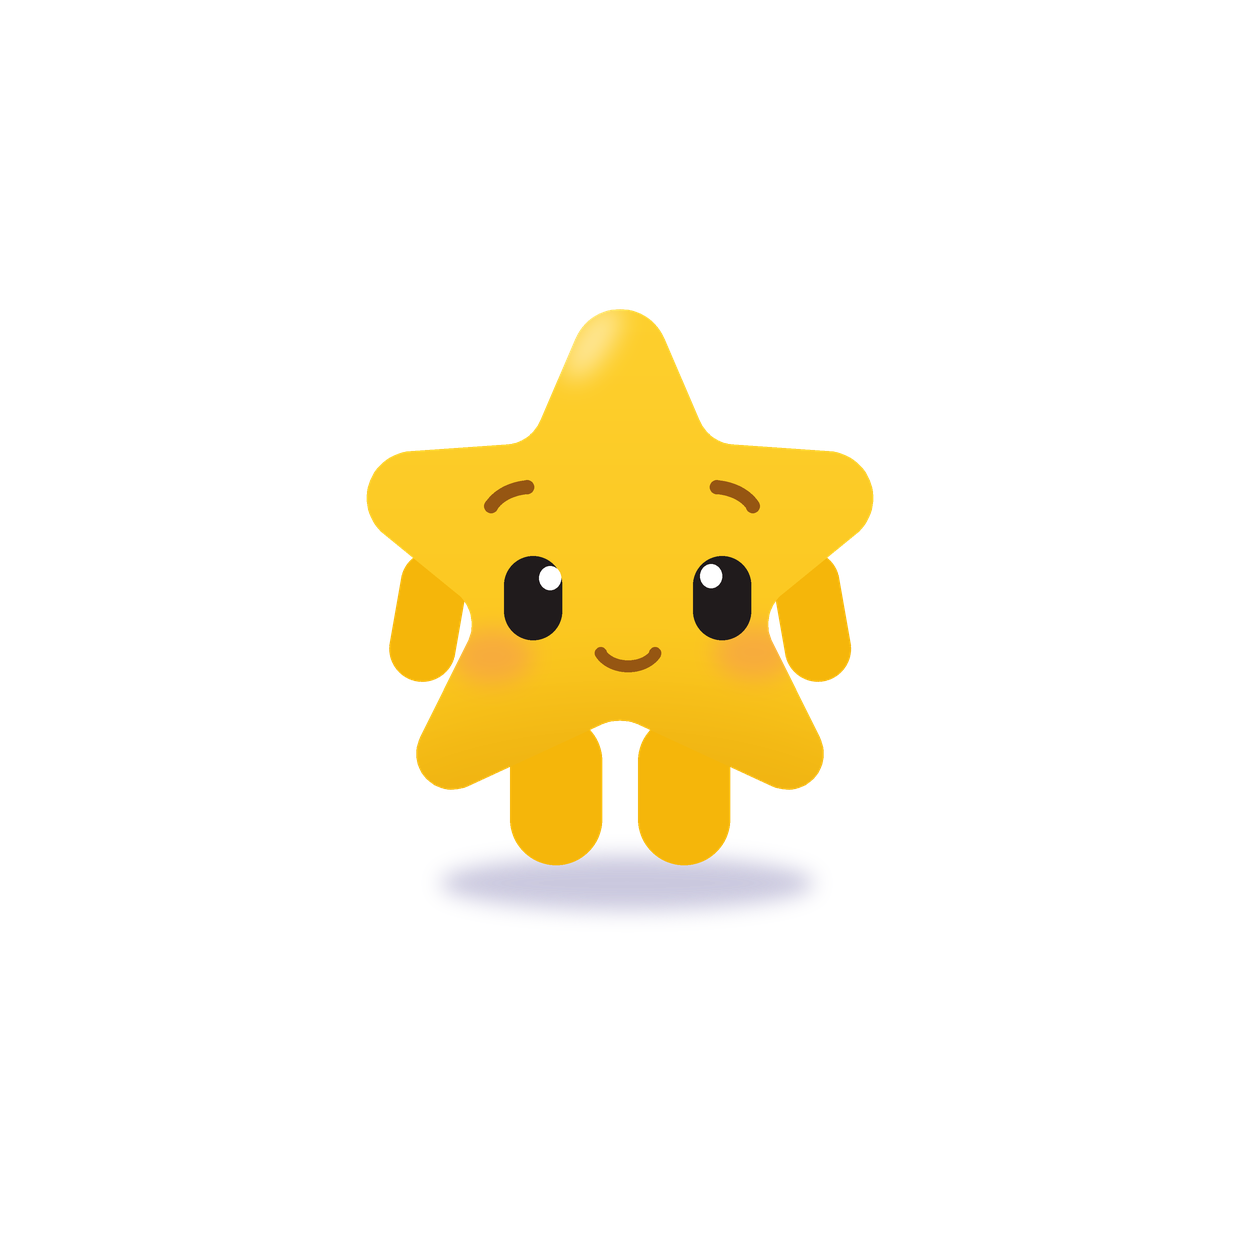
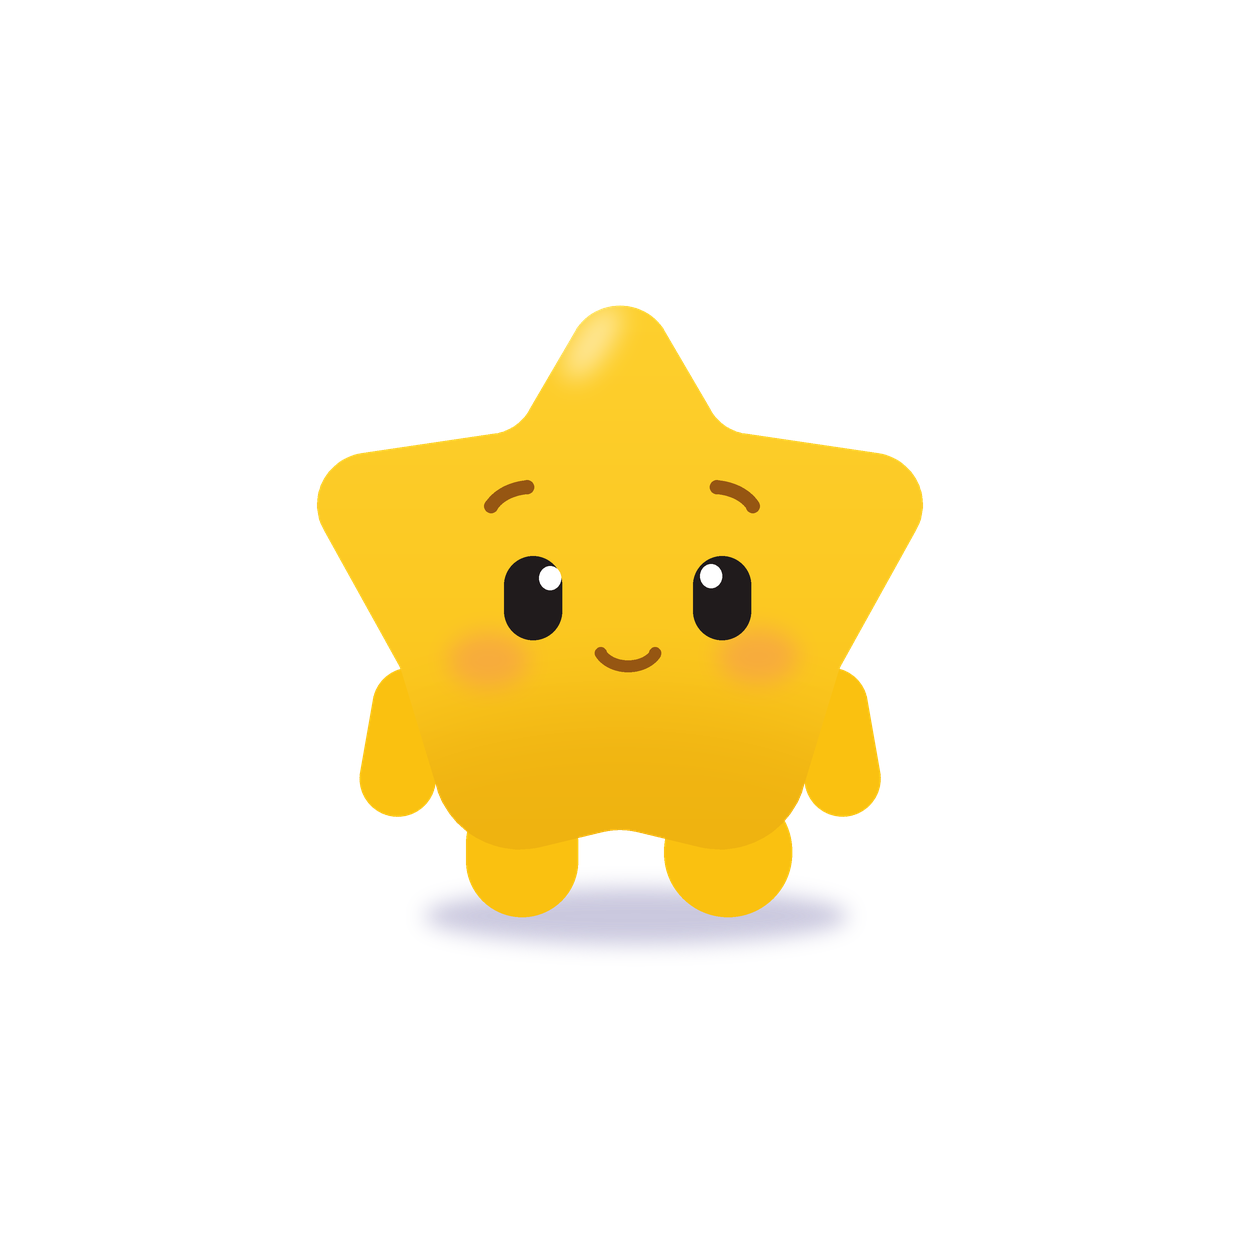
Restore the earlier star proportions
Revert the body back to the wider silhouette that matched the reference:
top and side rays with broad rounded hips and a shallow notch, larger
arms and feet. Keeps the icon-export options (--bg none, --crop,
--no-shadow, multi-size --size) and the blush clipped to the silhouette.

Claude-Session: https://claude.ai/code/session_015M4W5mwAC7ThVprora4HqH

diff --git a/cute_star.py b/cute_star.py
@@ -23,7 +23,7 @@ SS = 3                 # коэффициент суперсэмплинга
 BG = (255, 255, 255)
 BODY_TOP = (255, 214, 58)      # жёлтый у верхнего луча
 BODY_BOTTOM = (248, 186, 8)    # жёлтый у нижних лучей
-LIMB = (245, 182, 10)          # руки-ноги чуть темнее корпуса
+LIMB = (250, 193, 16)          # руки-ноги чуть темнее корпуса
 SHADOW = (203, 201, 223)
 EYE = (32, 27, 28)
 BROW = (150, 86, 18)
@@ -53,21 +53,21 @@ def polar(angle_deg: float, radius: float) -> tuple[float, float]:
 
 
 def star_vertices() -> list[tuple[float, float]]:
-    """Вершины пятиконечной звезды. Внутренние вершины лежат близко к центру,
-    поэтому все пять лучей — включая два нижних — читаются как лучи."""
+    """Вершины пятиконечной звезды: пропорции подогнаны под персонажа —
+    широкие «бёдра» снизу и неглубокая выемка между ними."""
     outer = [
-        polar(90, 330),    # верхний луч
-        polar(18, 346),    # правый боковой луч
-        polar(-47, 360),   # правый нижний луч
-        polar(227, 360),   # левый нижний луч
-        polar(162, 346),   # левый боковой луч
+        polar(90, 312),    # верхний луч
+        polar(17, 348),    # правая «рука»
+        polar(-62, 340),   # правое «бедро»
+        polar(242, 340),   # левое «бедро»
+        polar(163, 348),   # левая «рука»
     ]
     inner = [
-        polar(54, 152),
-        polar(-19, 146),
-        polar(-90, 150),   # выемка между нижними лучами
-        polar(199, 146),
-        polar(126, 152),
+        polar(53, 170),
+        polar(-25, 242),
+        polar(-90, 262),   # неглубокая выемка между ног
+        polar(205, 242),
+        polar(127, 170),
     ]
     pts: list[tuple[float, float]] = []
     for i in range(5):
@@ -193,20 +193,20 @@ def vertical_gradient(size, top_color, bottom_color) -> Image.Image:
 def draw_shadow(img: Image.Image) -> None:
     img.alpha_composite(soft_layer(
         img.size, SHADOW, 255,
-        lambda d: d.ellipse(sbox([440, 856, 814, 910]), fill=255),
+        lambda d: d.ellipse(sbox([424, 888, 848, 944]), fill=255),
         blur=s(10),
     ))
 
 
 def draw_limbs(img: Image.Image) -> None:
     """Ручки-культяпки по бокам и две ножки снизу (рисуются под корпусом)."""
-    rotated_capsule(img, 428, 616, 66, 132, LIMB + (255,), -10)
-    rotated_capsule(img, 812, 616, 66, 132, LIMB + (255,), 10)
+    rotated_capsule(img, 404, 742, 76, 150, LIMB + (255,), -10)
+    rotated_capsule(img, 836, 742, 76, 150, LIMB + (255,), 10)
 
     layer = Image.new("RGBA", img.size, (0, 0, 0, 0))
     d = ImageDraw.Draw(layer)
-    capsule(d, 556, 790, 92, 150, LIMB + (255,))
-    capsule(d, 684, 790, 92, 150, LIMB + (255,))
+    capsule(d, 522, 852, 112, 130, LIMB + (255,))
+    capsule(d, 728, 852, 128, 130, LIMB + (255,))
     img.alpha_composite(layer)
 
 
@@ -214,9 +214,9 @@ def star_mask(size) -> Image.Image:
     pts = star_vertices()
     radii = []
     for i in range(10):
-        radii.append(48 if i % 2 == 0 else 40)   # кончики лучей / внутренние
-    radii[4] = radii[6] = 36                     # нижние лучи — поострее
-    radii[5] = 46                                # выемка между нижними лучами
+        radii.append(52 if i % 2 == 0 else 48)   # внешние углы / внутренние
+    radii[4] = radii[6] = 96                     # «бёдра» скруглены сильнее
+    radii[5] = 70                                # выемка между ног — мягкая
     path = round_polygon(pts, radii)
 
     mask = Image.new("L", size, 0)
@@ -257,8 +257,8 @@ def draw_face(img: Image.Image, mask: Image.Image) -> None:
     # румянец — размытый, поэтому отдельным слоем; обрезаем по силуэту тела,
     # чтобы он не вылезал на фон
     def paint_blush(d):
-        d.ellipse(sbox([452, 628, 532, 684]), fill=255)
-        d.ellipse(sbox([714, 624, 794, 680]), fill=255)
+        d.ellipse(sbox([448, 632, 528, 688]), fill=255)
+        d.ellipse(sbox([718, 628, 798, 684]), fill=255)
 
     img.alpha_composite(
         soft_layer(img.size, BLUSH, 175, paint_blush, blur=s(11), mask=mask)

diff --git a/README.md b/README.md
@@ -7,9 +7,9 @@
 Сглаживание — суперсэмплингом: всё рисуется в 3 раза крупнее и уменьшается
 через LANCZOS.
 
-Тело — честная пятиконечная звезда: все пять лучей (верхний, два боковых и
-два нижних) читаются как лучи, ручки-культяпки висят под боковыми лучами,
-ножки выходят из выемки между нижними.
+Пропорции — как у персонажа с референса: верхний луч и два боковых, снизу
+широкие «бёдра» с неглубокой выемкой, ручки-культяпки по бокам и две
+короткие ножки.
 
 ## Запуск
 
